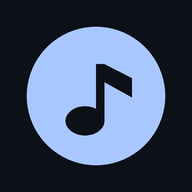
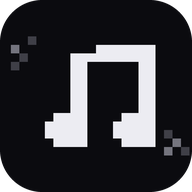
Novo ícone do Nyx: nota musical em pixel art
Claude-Session: https://claude.ai/code/session_01Q4VpP2ogUQEUqRS1ycvamx

diff --git a/sw.js b/sw.js
@@ -1,5 +1,5 @@
 // Service worker: mantém os arquivos do player disponíveis offline.
-const CACHE = "aplicativo-reprodutor-musica-v41";
+const CACHE = "aplicativo-reprodutor-musica-v42";
 const APP_CACHE_PREFIX = "aplicativo-reprodutor-musica-v";
 const LEGACY_CACHE_NAMES = new Set(["musica-v26"]);
 const CORE = [
